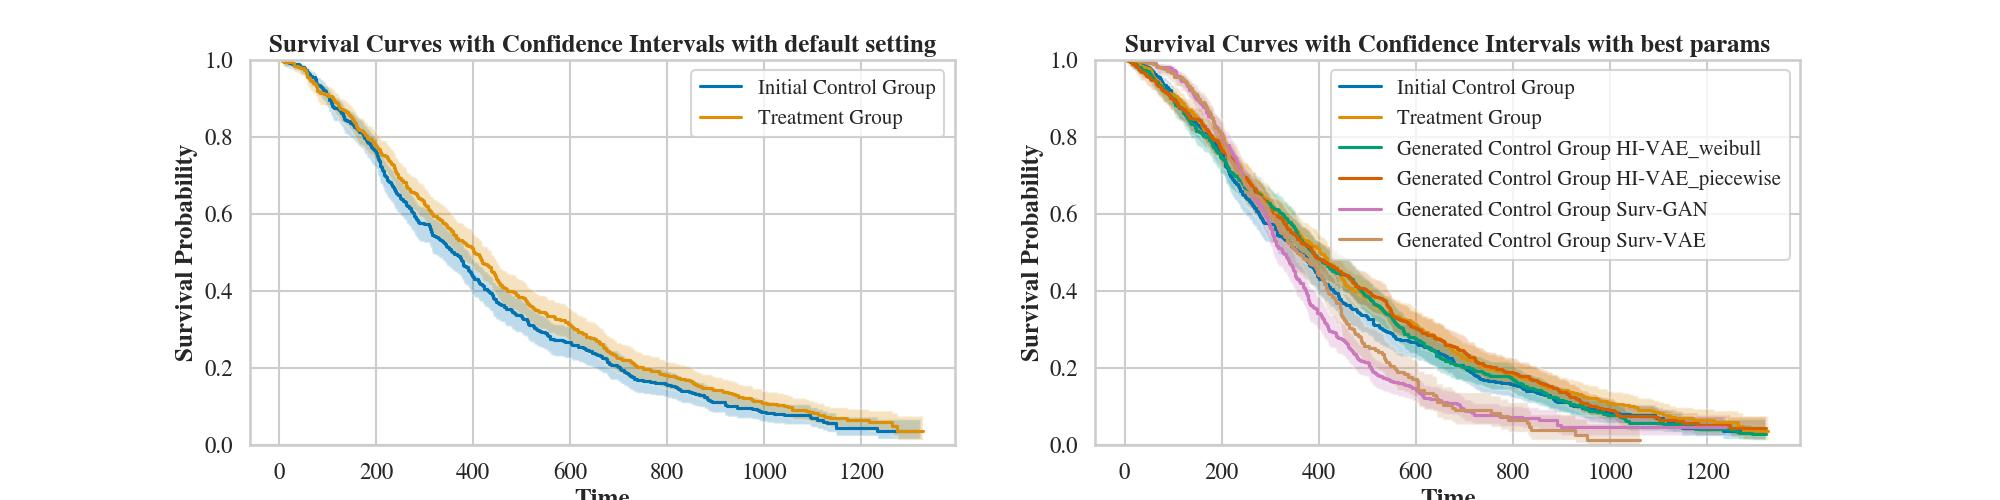
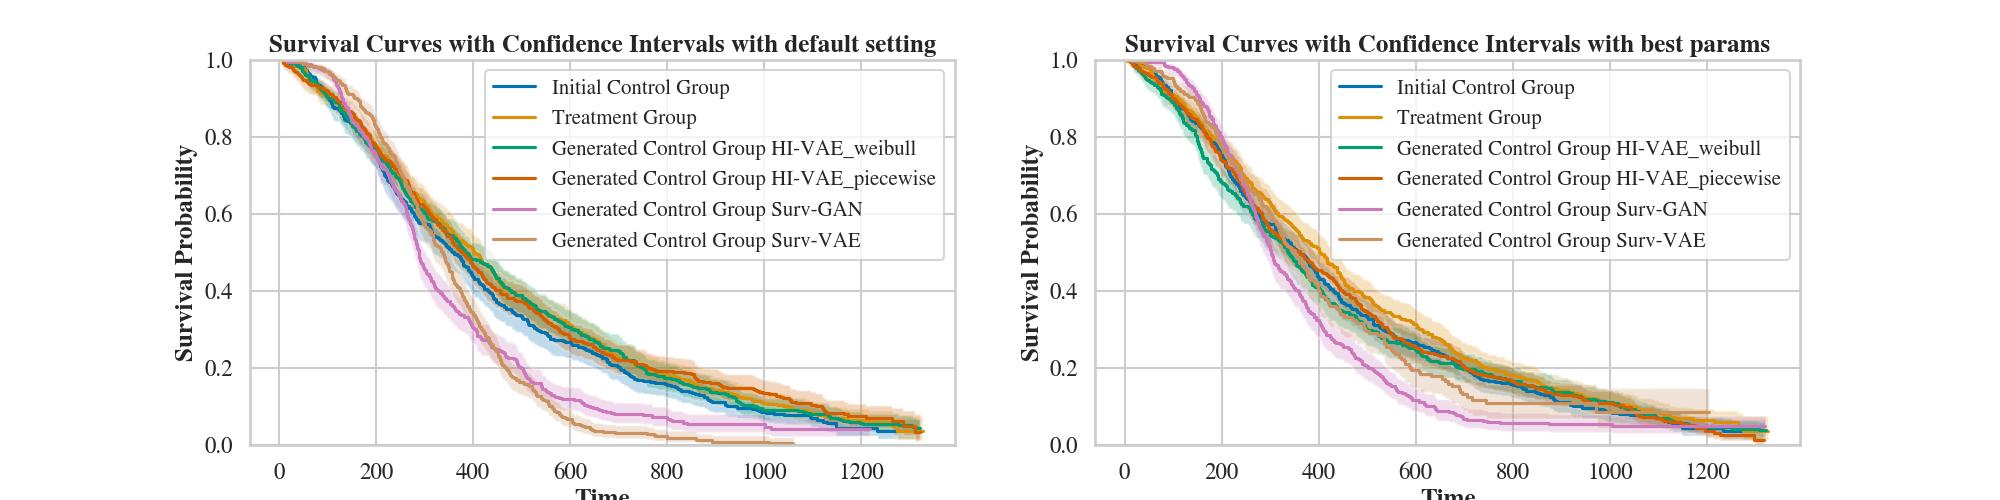
Update the script of real dataset hyperopt

Changed region(s): [[0.124, 0.12, 0.465, 0.9], [0.558, 0.12, 0.899, 0.9]]

diff --git a/real_dataset_hyperopt.py b/real_dataset_hyperopt.py
@@ -161,7 +161,7 @@ def run(dataset_name):
                                                                                                     time_to_event_column="time", 
                                                                                                     n_generated_dataset=n_generated_dataset, 
                                                                                                     params=best_params)
-            
+
     # COMPARE THE RESULTS BETWEEN THE BEST PARAMS WITH DEFAULT ONES
     def kaplan_meier_estimation(surv_data, label=None, ax=None):
         surv_time  = surv_data['time'].values
@@ -174,6 +174,11 @@ def run(dataset_name):
     fig, axs = plt.subplots(1, 2, figsize=(20, 5))
     kaplan_meier_estimation(df_init_control, label="Initial Control Group", ax=axs[0])
     kaplan_meier_estimation(df_init_treated, label="Treatment Group", ax=axs[0])
+
+    sel_dataset_idx = 0
+    for i, generator_name in enumerate(generators_sel):
+        df_syn_sel = pd.DataFrame(data_gen_control_dict[generator_name][sel_dataset_idx].numpy(), columns=fnames)
+        kaplan_meier_estimation(df_syn_sel, label="Generated Control Group " + generator_name, ax=axs[0])
 
     axs[0].set_ylim(0, 1)
     axs[0].legend(fontsize=15)
@@ -196,11 +201,10 @@ def run(dataset_name):
     axs[1].set_title("Survival Curves with Confidence Intervals with best params", fontweight="bold")
     plt.savefig("./dataset/" + dataset_name + "/hyperopt.jpeg")
 
-
 if __name__ == "__main__":
-    # for dataset_name in ["Aids", "SAS_1", "SAS_2", "SAS_3"]:
+    for dataset_name in ["Aids", "SAS_1", "SAS_2", "SAS_3"]:
     # for dataset_name in ["SAS_2", "SAS_3"]:
-    #     run(dataset_name)
+        run(dataset_name)
 
-    dataset_name = sys.argv[1]
-    run(dataset_name)
+    # dataset_name = sys.argv[1]
+    # run(dataset_name)
